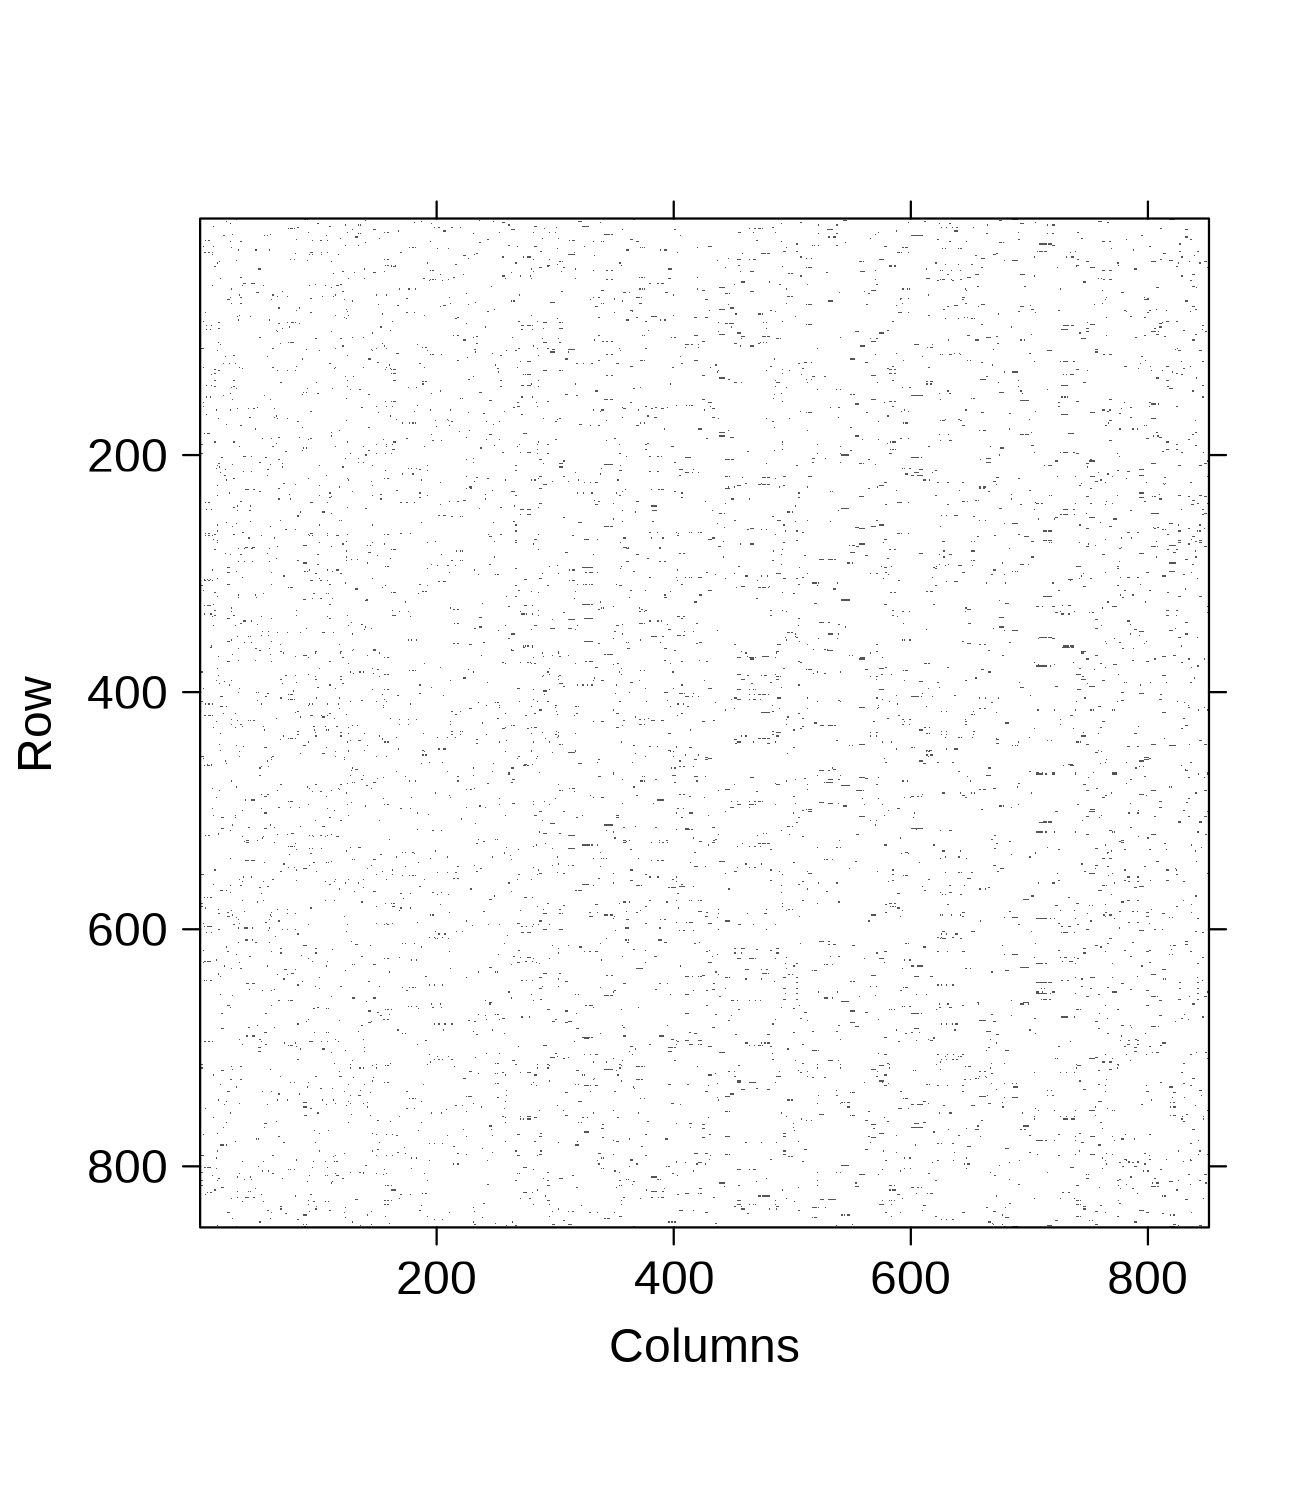
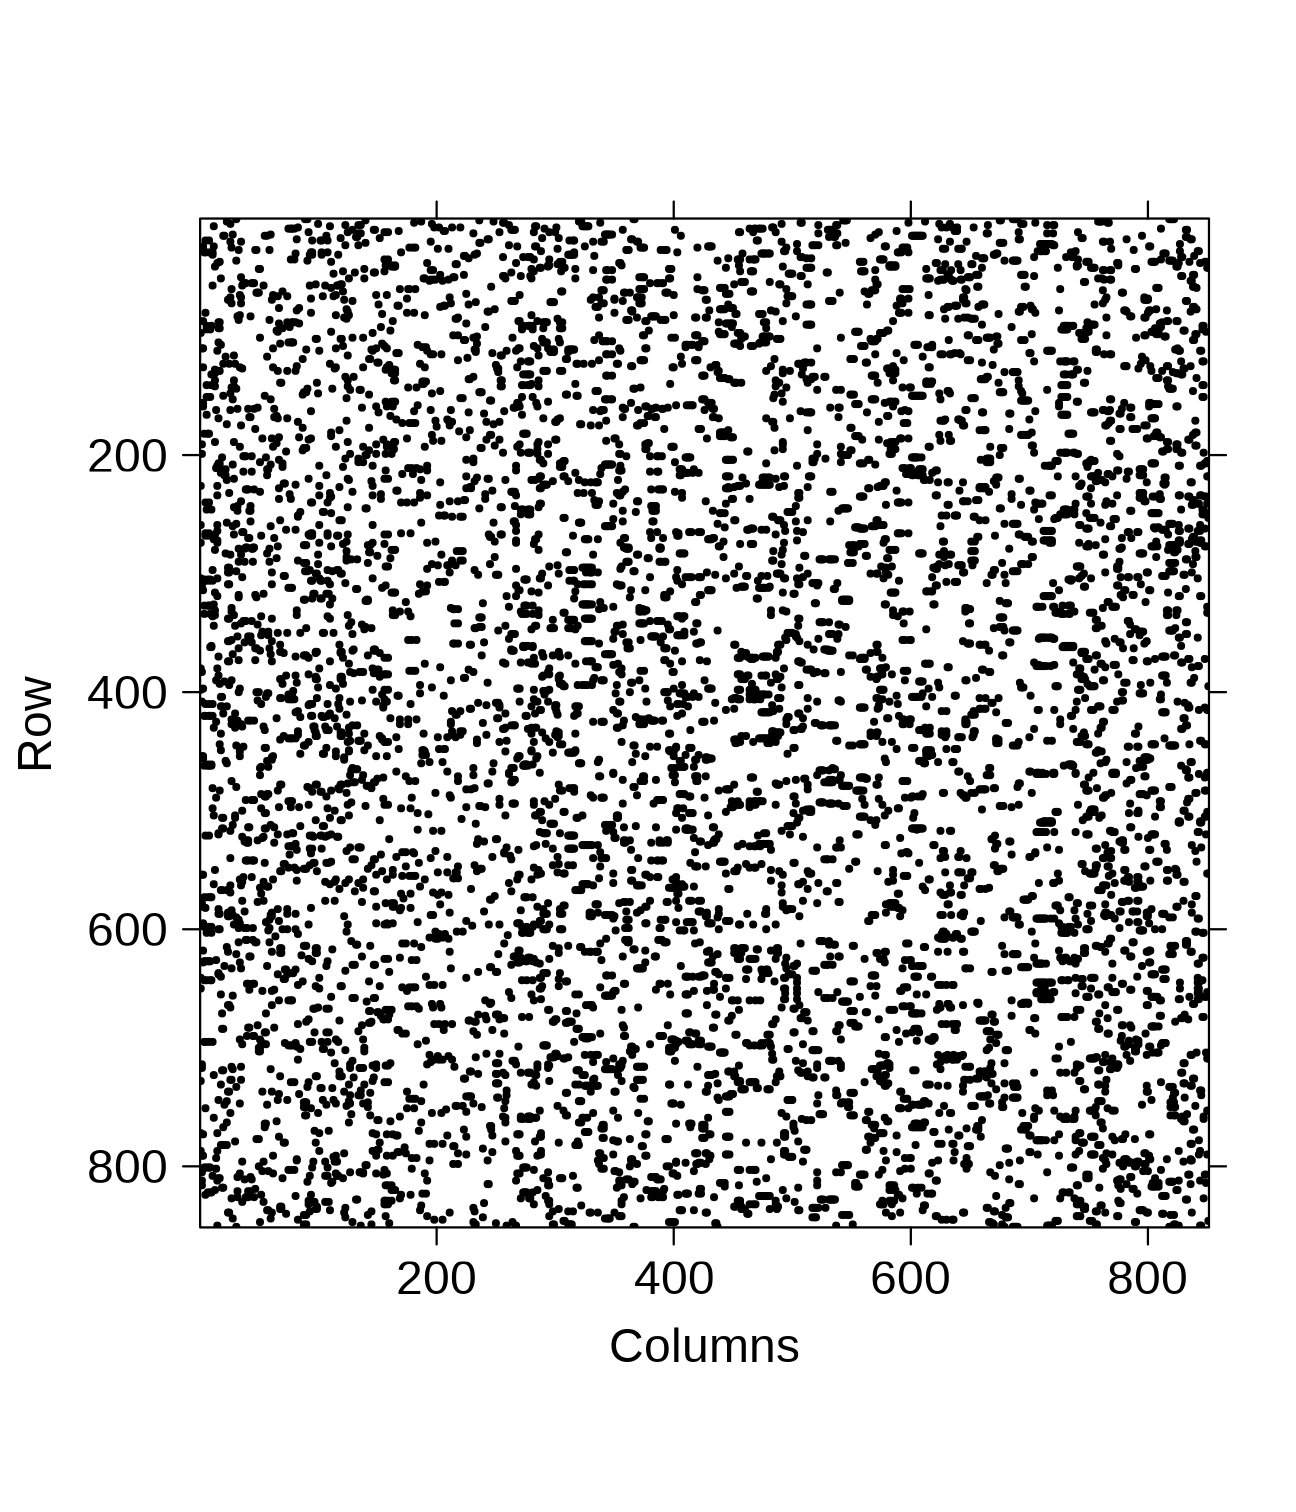
push everything

Changed region(s): [[0.1543, 0.1243, 0.9568, 0.8082]]

diff --git a/slides.html b/slides.html
@@ -3545,6 +3545,7 @@ first_order_binary_adjacency &lt;- net_line_graph %&gt;%
 * xlab = list(label = "Columns", cex = 3),
 * ylab = list(label = "Row", cex = 3),
 * scales = list(cex = 3),
+* lwd = 3,
 * sub = ""
 * )
 ```
@@ -3639,6 +3640,7 @@ second_order_binary_adjacency &lt;- ego2_net %&gt;%
 * xlab = list(label = "Columns", cex = 3),
 * ylab = list(label = "Row", cex = 3),
 * scales = list(cex = 3),
+* lwd = 3,
 * sub = ""
 * )
 ```
@@ -3651,13 +3653,13 @@ second_order_binary_adjacency &lt;- ego2_net %&gt;%
 &lt;style&gt;
 .left-panel-line_graph2-user {
   color: #777;
-  width: 55%;
+  width: 60%;
   height: 92%;
   float: left;
   font-size: 80%
 }
 .right-panel-line_graph2-user {
-  width: 42%;
+  width: 35%;
   float: right;
   padding-left: 1%;
   font-size: 80%
